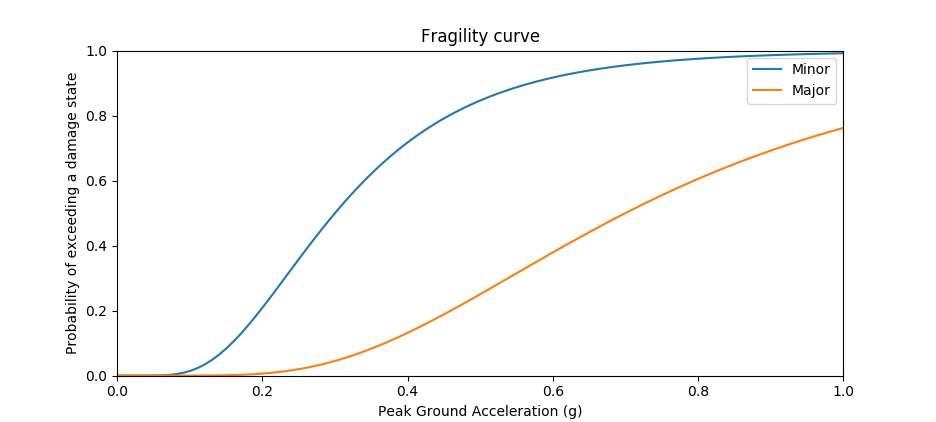
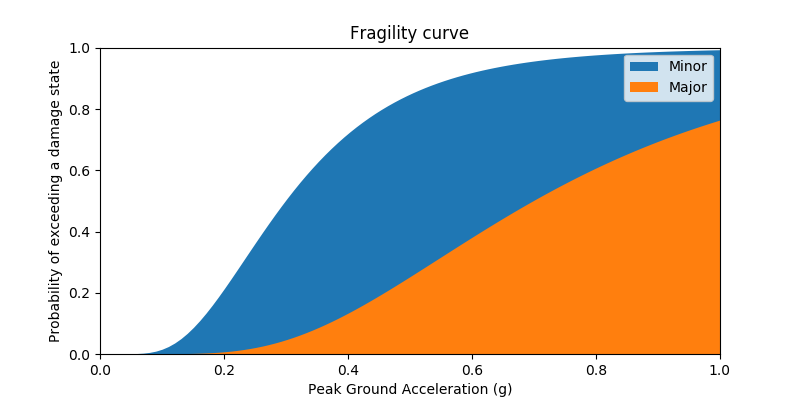
Added graphics capability for fragility curves and tank curves.

diff --git a/wntr/tests/test_graphics.py b/wntr/tests/test_graphics.py
@@ -1,0 +1,70 @@
+from nose.tools import *
+from os.path import abspath, dirname, join, isfile
+import os
+import wntr
+import matplotlib.pylab as plt
+
+testdir = dirname(abspath(str(__file__)))
+test_datadir = join(testdir,'networks_for_testing')
+ex_datadir = join(testdir,'..','..','examples','networks')
+
+def test_plot_network1():
+    filename = abspath(join(testdir, 'plot_network1.png'))
+    if isfile(filename):
+        os.remove(filename)
+    
+    inp_file = join(ex_datadir,'Net6.inp')
+    wn = wntr.network.WaterNetworkModel(inp_file)
+		
+    plt.figure()
+    wntr.graphics.plot_network(wn)
+    plt.savefig(filename, format='png')
+    plt.close()
+    
+    assert_true(isfile(filename))
+
+def test_plot_interactive_network1():
+    filename = abspath(join(testdir, 'plot_interactive_network1.html'))
+    if isfile(filename):
+        os.remove(filename)
+        
+    inp_file = join(ex_datadir,'Net6.inp')
+    wn = wntr.network.WaterNetworkModel(inp_file)
+		
+    plt.figure()
+    wntr.graphics.plot_interactive_network(wn, filename=filename)
+    
+    assert_true(isfile(filename))
+
+def test_plot_fragility_curve1():
+    from scipy.stats import lognorm
+    filename = abspath(join(testdir, 'plot_fragility_curve1.png'))
+    if isfile(filename):
+        os.remove(filename)
+        
+    FC = wntr.scenario.FragilityCurve()
+    FC.add_state('Minor', 1, {'Default': lognorm(0.5,scale=0.3)})
+    FC.add_state('Major', 2, {'Default': lognorm(0.5,scale=0.7)}) 
+    
+    plt.figure()
+    wntr.graphics.plot_fragility_curve(FC)
+    plt.savefig(filename, format='png')
+    plt.close()
+    
+    assert_true(isfile(filename))
+    
+def test_plot_tank_curve1():
+    filename = abspath(join(testdir, 'plot_pump_curve1.png'))
+    if isfile(filename):
+        os.remove(filename)
+        
+    inp_file = join(ex_datadir,'Net3.inp')
+    wn = wntr.network.WaterNetworkModel(inp_file)
+    pump = wn.get_link('10')
+    
+    plt.figure()
+    wntr.graphics.plot_pump_curve(pump)
+    plt.savefig(filename, format='png')
+    plt.close()
+    
+    assert_true(isfile(filename))

diff --git a/wntr/graphics/curve.py b/wntr/graphics/curve.py
@@ -1,0 +1,67 @@
+"""
+The wntr.graphics.curve module includes methods plot fragility curves and 
+pump curves.
+"""
+import numpy as np
+try:
+    import matplotlib.pyplot as plt
+except:
+    pass
+import logging
+
+logger = logging.getLogger(__name__)
+
+def plot_fragility_curve(FC, fill=True, dist_key='Default',
+                         title='Fragility curve', 
+                         xmin=0, xmax=1, npoints=100, 
+                         xlabel='x', 
+                         ylabel='Probability of exceeding a damage state',
+                         figsize=[8,4], dpi=100):
+    """
+    Plot fragility curve.
+    """
+    plt.figure(figsize=tuple(figsize), dpi=dpi)
+    plt.title(title)
+    x = np.linspace(xmin,xmax,npoints)
+    for name, state in FC.states():
+        try:
+            dist=state.distribution[dist_key]
+            if fill:
+                plt.fill_between(x,dist.cdf(x), label=name)
+            else:
+                plt.plot(x,dist.cdf(x), label=name)
+        except:
+            pass        
+    plt.xlim((xmin,xmax))
+    plt.ylim((0,1))
+    plt.xlabel(xlabel)
+    plt.ylabel(ylabel)
+    plt.legend()
+
+def plot_pump_curve(pump, title='Pump curve', 
+                    xmin=0, xmax=None, ymin=0, ymax=None, 
+                    xlabel='Head (m)', 
+                    ylabel='Flow (m3/s)',
+                    figsize=[8,4], dpi=100):
+    """
+    Plot pump curve.
+    """
+    plt.figure(figsize=tuple(figsize), dpi=dpi)
+    plt.title(title)
+    x = []
+    y = []
+    for pt in pump.curve.points:
+        x.append(pt[0])
+        y.append(pt[1])
+    plt.scatter(x,y)
+    plt.plot(x,y, label=pump.curve.name)    
+    if xmax is None:
+        xmax = max(x)
+    if ymax is None:
+        ymax = max(y)
+    plt.xlim((xmin,xmax))
+    plt.ylim((ymin,ymax))
+    plt.xlabel(xlabel)
+    plt.ylabel(ylabel)
+    plt.legend()
+    

diff --git a/examples/fragility_curves.py b/examples/fragility_curves.py
@@ -19,27 +19,19 @@ earthquake = wntr.scenario.Earthquake(epicenter, magnitude, depth)
 # Compute PGA
 R = earthquake.distance_to_epicenter(wn, element_type=wntr.network.Pipe)
 pga = earthquake.pga_attenuation_model(R)  
-wntr.graphics.plot_network(wn, link_attribute=pga,title='PGA')
+wntr.graphics.plot_network(wn, link_attribute=pga,title='Peak Ground Acceleration (g)')
   
 # Define fragility curve  
 FC = wntr.scenario.FragilityCurve()
 FC.add_state('Minor', 1, {'Default': lognorm(0.5,scale=0.3)})
 FC.add_state('Major', 2, {'Default': lognorm(0.5,scale=0.7)}) 
-plt.figure()
-plt.title('Fragility curve')
-x = np.linspace(0,1,100)
-for name, state in FC.states():
-    dist=state.distribution['Default']
-    plt.plot(x,dist.cdf(x), label=name)
-plt.ylim((0,1))
-plt.xlabel('Peak Ground Acceleration (g)')
-plt.ylabel('Probability of exceeding a damage state')
-plt.legend()
+wntr.graphics.plot_fragility_curve(FC, xlabel='Peak Ground Acceleration (g)')
 
 # Draw damage state for each pipe
 pipe_PEDS = FC.cdf_probability(pga)
 pipe_damage_state = FC.sample_damage_state(pipe_PEDS)
 pipe_damage_state_map = FC.get_priority_map()
 val = pipe_damage_state.map(pipe_damage_state_map)
-wntr.graphics.plot_network(wn, link_attribute=val,
+custom_cmp = wntr.graphics.custom_colormap(3, ['black', 'cyan', 'red'])
+wntr.graphics.plot_network(wn, link_attribute=val, link_cmap = custom_cmp,
                         title='Damage state, 0 = None, 1 = Minor, 2 = Major')

diff --git a/wntr/graphics/__init__.py b/wntr/graphics/__init__.py
@@ -2,5 +2,6 @@
 The wntr.graphics package contains graphic functions
 """
 from wntr.graphics.network import plot_network, plot_interactive_network
+from wntr.graphics.curve import plot_fragility_curve, plot_pump_curve
 from wntr.graphics.color import custom_colormap
 
